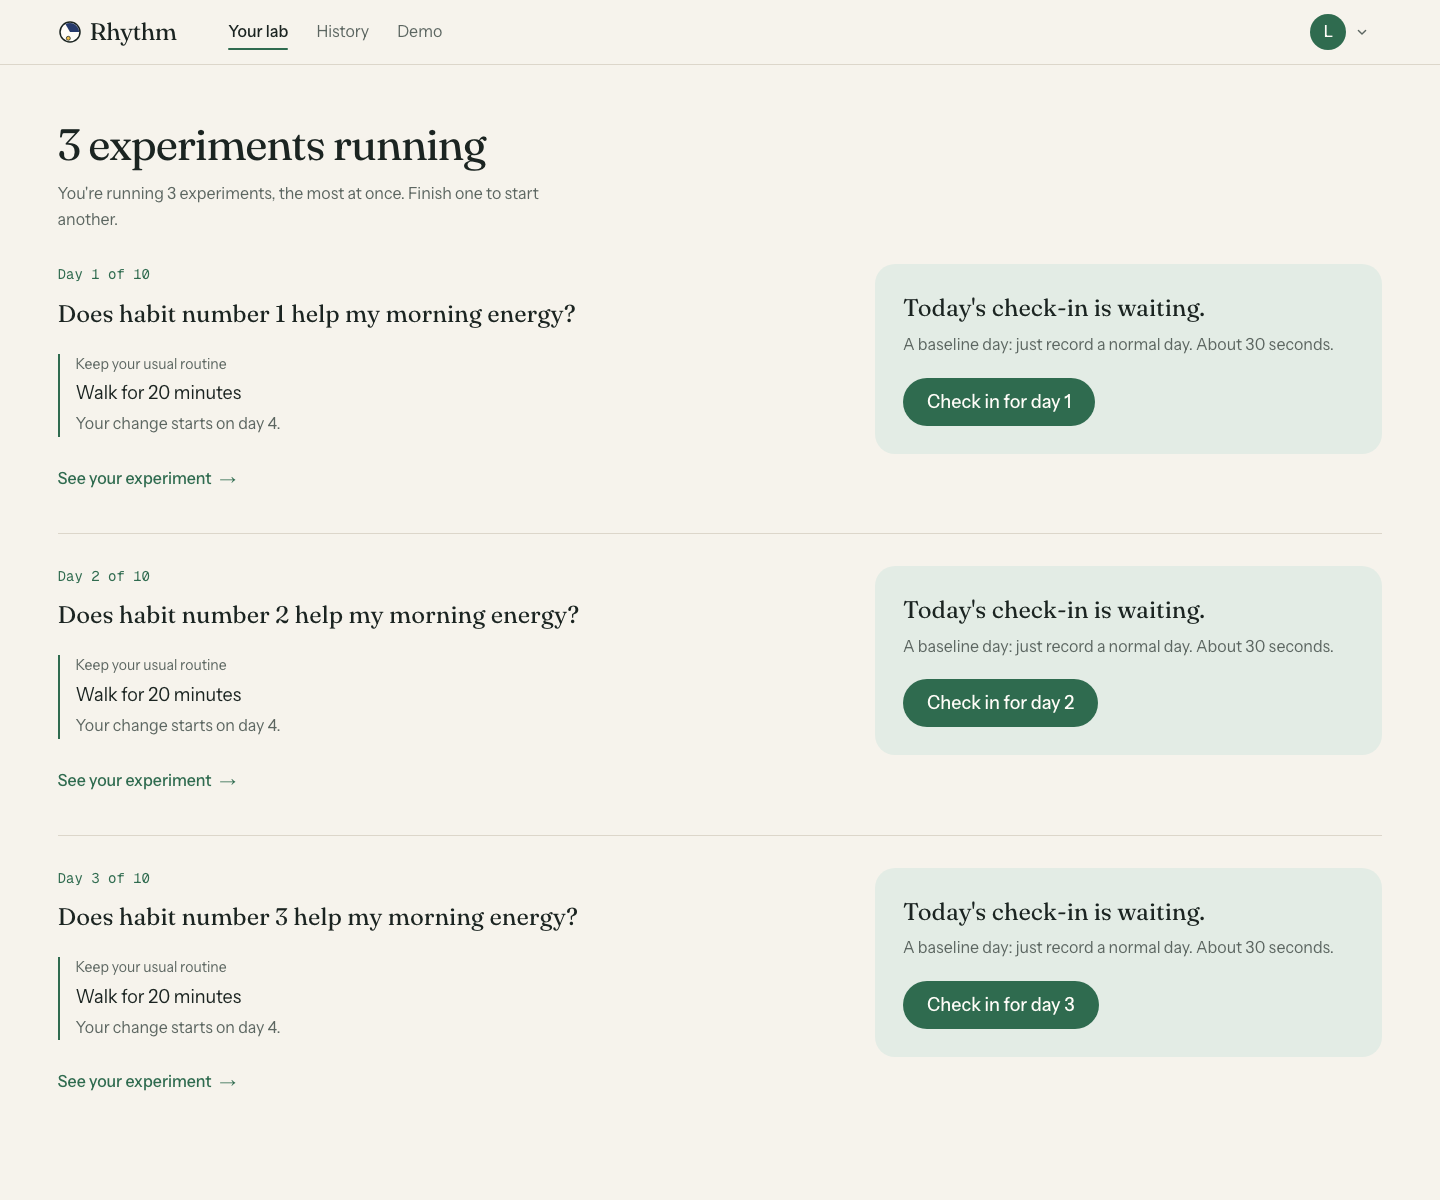
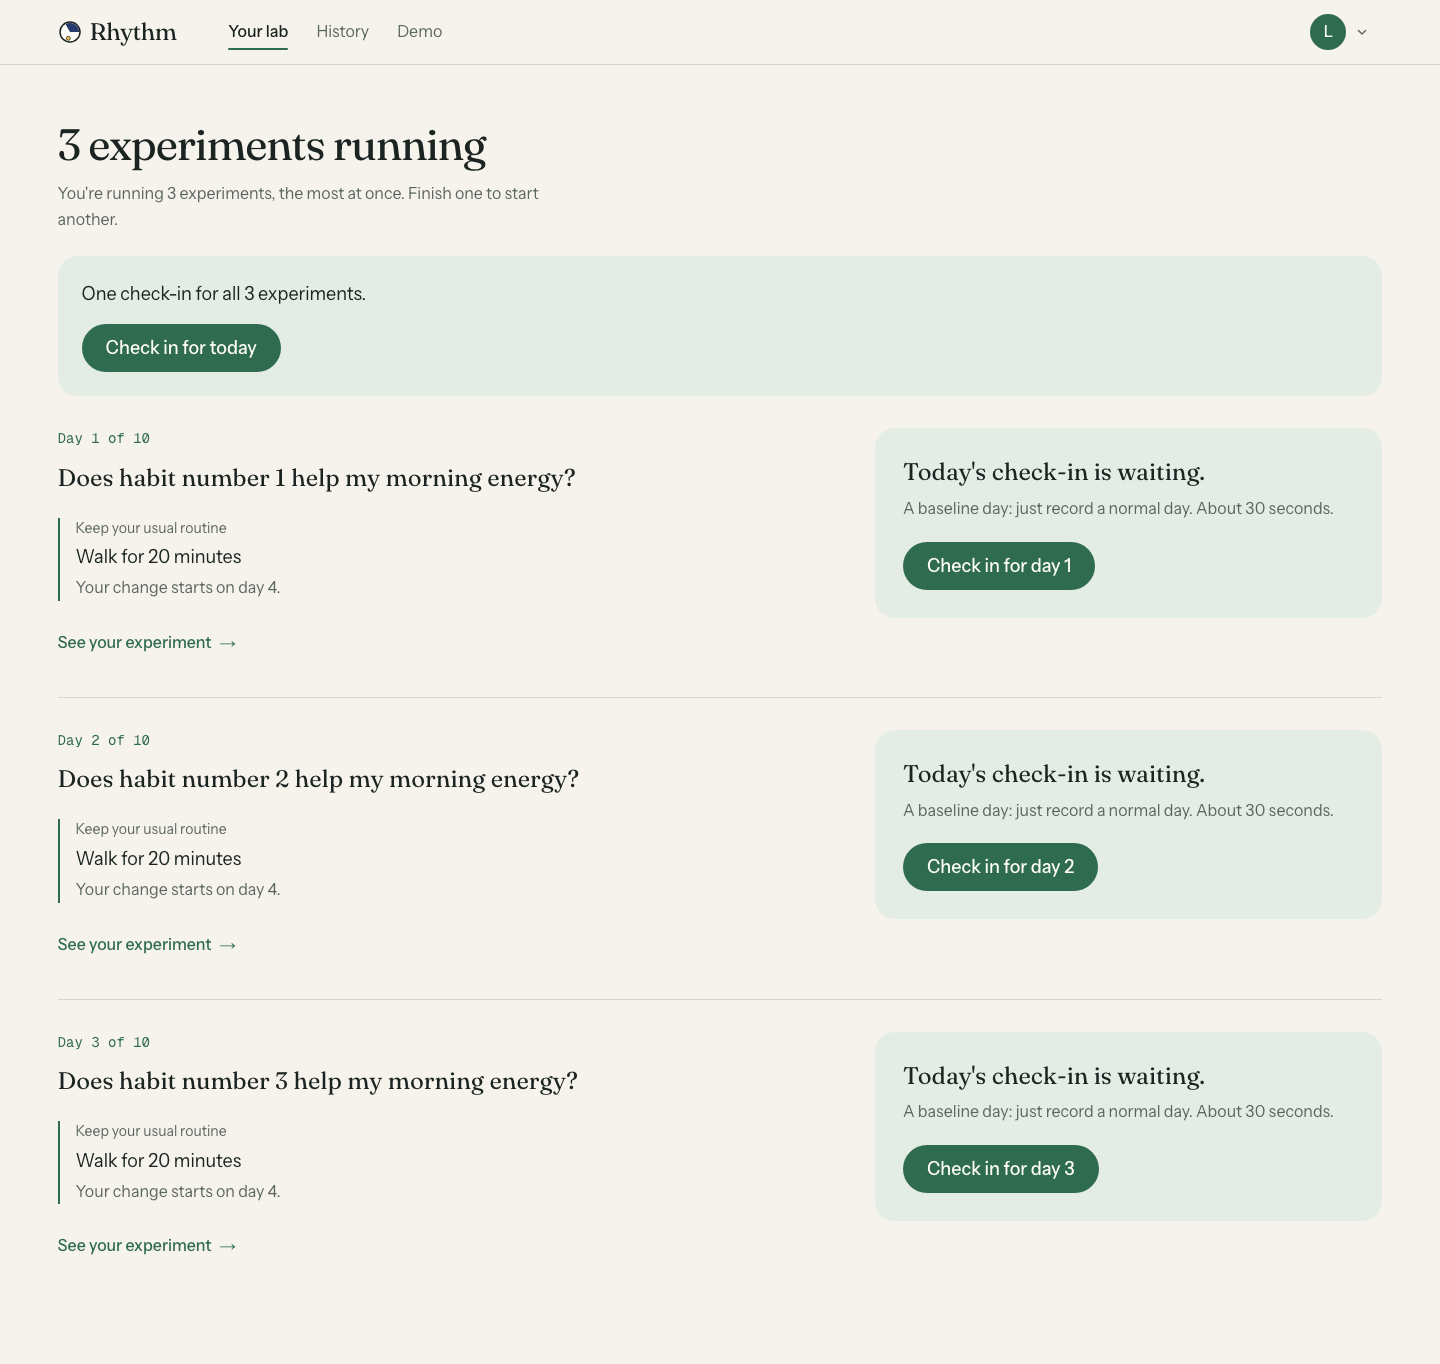
test(web): check the combined check-in in the browser, with screenshots

diff --git a/frontend/tests/e2e/several-active.spec.ts b/frontend/tests/e2e/several-active.spec.ts
@@ -65,7 +65,7 @@ for (const width of [390, 1440]) {
 
     await page.getByRole("link", { name: "Check in for today" }).click();
     await expect(page.getByRole("heading", { name: "Today's check-in.", level: 1 })).toBeVisible();
-    await expect(page.getByText("For all 3 experiments")).toBeVisible();
+    await expect(page.getByText("For all 3 experiments", { exact: true })).toBeVisible();
     await expect(page.getByRole("radio", { name: "Yes" })).toHaveCount(1);
     expect(await page.evaluate(() => document.documentElement.scrollWidth - document.documentElement.clientWidth)).toBeLessThanOrEqual(0);
     await page.evaluate(() => document.querySelector("nextjs-portal")?.remove());

diff --git a/.claude-logs/2026-11-04_01-51-37_758cdbea-4fd3-4b34-90df-966bac5c1761.md b/.claude-logs/2026-11-04_01-51-37_758cdbea-4fd3-4b34-90df-966bac5c1761.md
@@ -7,21 +7,21 @@ git_email: mnahsanofficial@gmail.com
 project: Health
 session_status: complete
 last_entry_type: assistant
-total_exchanges: 16
-generated_at: 2026-11-04T04:50:04.459615
+total_exchanges: 17
+generated_at: 2026-11-04T05:00:27.688649
 first_prompt_time: 2026-11-03T19:42:35.876Z
-last_prompt_time: 2026-11-03T22:41:47.438Z
-session_duration_minutes: 179.2
-avg_time_between_prompts_minutes: 11.9
-total_prompt_chars: 7758
-total_prompt_words: 1124
-avg_prompt_length_chars: 484.9
-avg_prompt_length_words: 70.2
+last_prompt_time: 2026-11-03T22:59:35.820Z
+session_duration_minutes: 197.0
+avg_time_between_prompts_minutes: 12.3
+total_prompt_chars: 8158
+total_prompt_words: 1144
+avg_prompt_length_chars: 479.9
+avg_prompt_length_words: 67.3
 longest_prompt_words: 854
 shortest_prompt_words: 1
-total_response_chars: 36466
-avg_response_length_chars: 2279.1
-response_to_prompt_ratio: 4.7
+total_response_chars: 36727
+avg_response_length_chars: 2160.4
+response_to_prompt_ratio: 4.5
 prompts_with_code_blocks: 0
 prompts_with_file_paths: 0
 prompts_with_urls: 1
@@ -1086,8 +1086,35 @@ Yes, build it
 
 
 [CLAUDE_LOG_ENTRY type=RESPONSE num=16 session=758cdbea-4fd3-4b34-90df-966bac5c1761]
-timestamp: 2026-11-03T22:48:36.461Z
-time: 2026-11-03 22:48
-chars: 134
+timestamp: 2026-11-03T22:51:52.683Z
+time: 2026-11-03 22:51
+chars: 247
 
-Mobile is green with all 351 tests passing. I'm committing it, updating the docs, and running the code-review skill on the whole diff.
+All the checks pass so far: backend 372, web 199 and mobile 352 tests, plus lint, typecheck, contract, brand, build and mobile export. The full browser suite is running in the background, and I'll open the PR once it's done. Nothing is pushed yet.
+
+
+[CLAUDE_LOG_ENTRY type=PROMPT num=17 session=758cdbea-4fd3-4b34-90df-966bac5c1761]
+timestamp: 2026-11-03T22:59:35.820Z
+time: 2026-11-03 22:59
+chars: 400
+words: 20
+has_code_block: False
+has_file_paths: False
+has_urls: False
+likely_pasted: False
+
+<task-notification>
+<task-id>bxao240fd</task-id>
+<tool-use-id>toolu_01DbhUt4cs7YM8jJ7erL8Gjb</tool-use-id>
+<output-file>/private/tmp/claude-501/-Users-nazmulahsan-Health/758cdbea-4fd3-4b34-90df-966bac5c1761/tasks/bxao240fd.output</output-file>
+<status>completed</status>
+<summary>Background command "Run the full browser suite in the background" completed (exit code 0)</summary>
+</task-notification>
+
+
+[CLAUDE_LOG_ENTRY type=RESPONSE num=17 session=758cdbea-4fd3-4b34-90df-966bac5c1761]
+timestamp: 2026-11-03T22:59:52.188Z
+time: 2026-11-03 22:59
+chars: 148
+
+Just a test selector: "For all 3 experiments" also matches "One check-in for all 3 experiments." I'm making the match exact and rerunning that spec.
